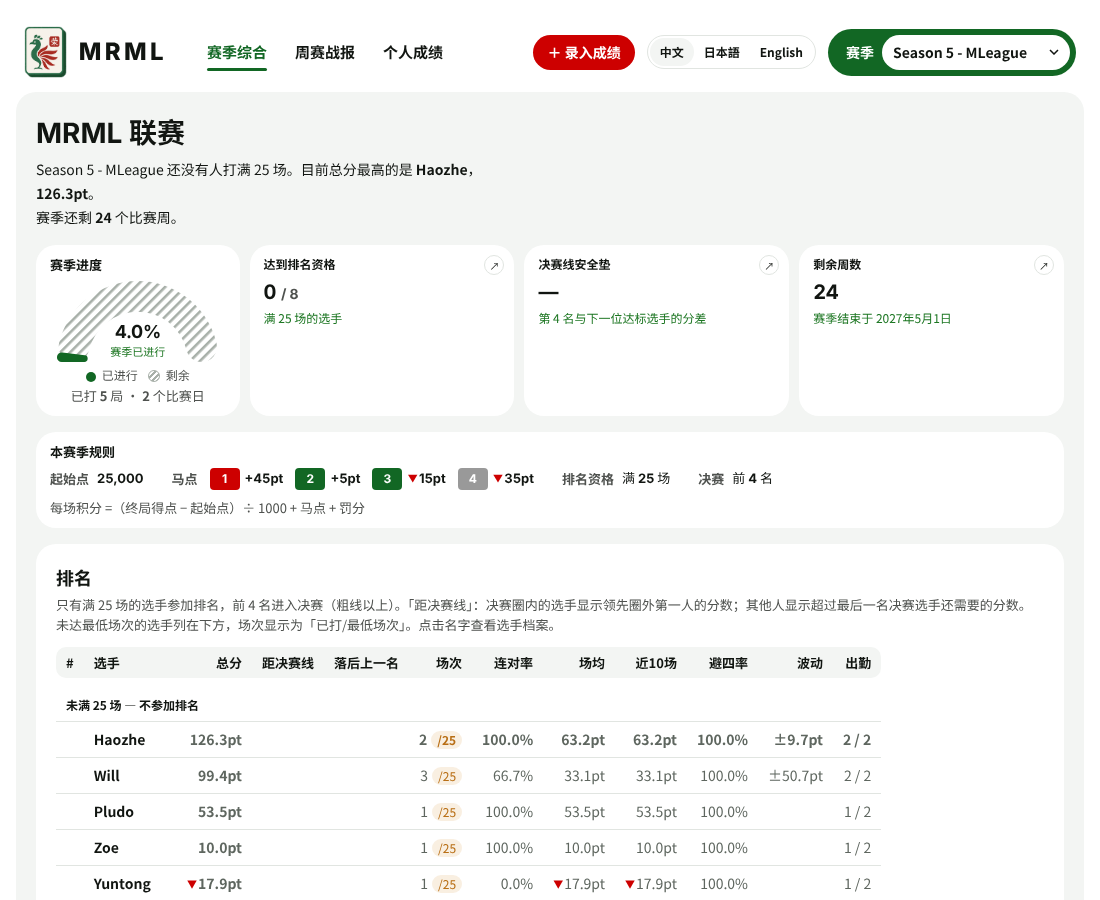
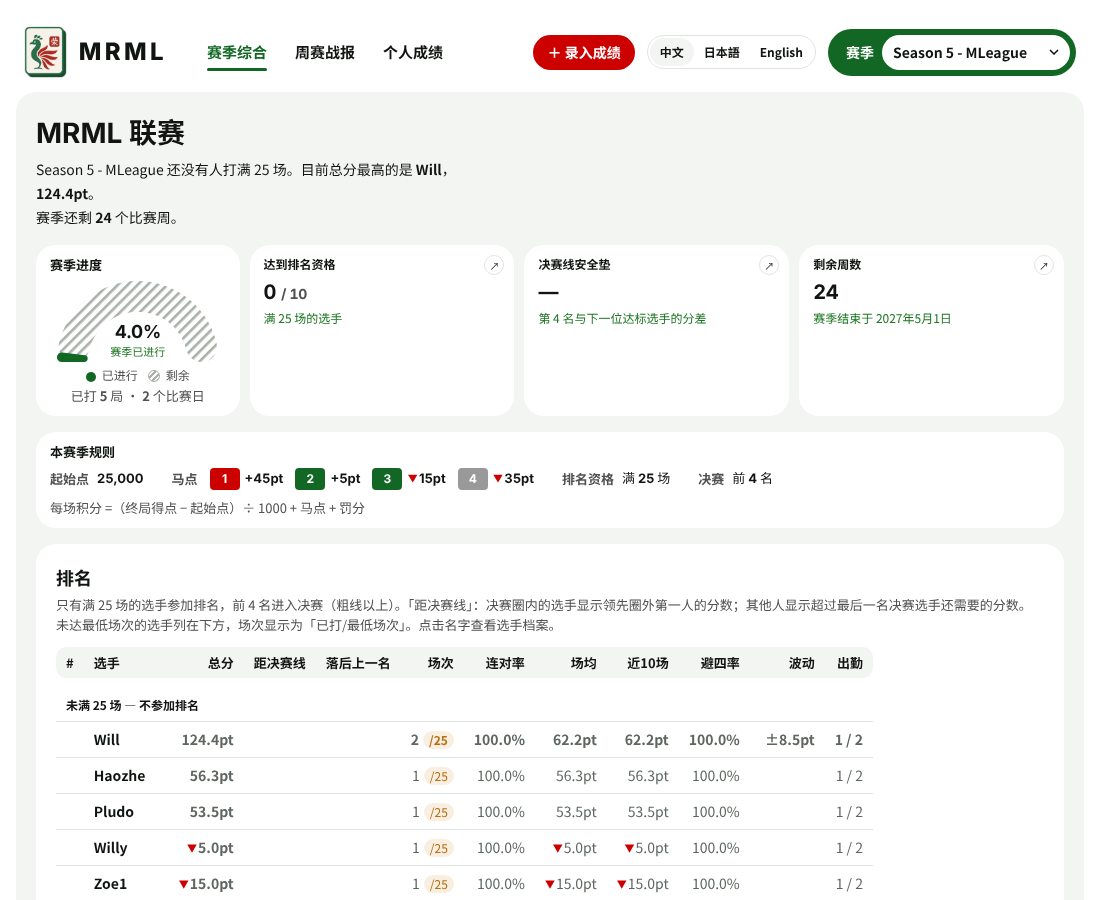
Ties: split the bonus but both players keep the higher place (no half places)
Claude-Session: https://claude.ai/code/session_01Fz9KbE3Bs34c3hJEbuy2ze

diff --git a/index.html b/index.html
@@ -607,7 +607,7 @@
           </div>
           <div class="mr-board" id="board-tops">
             <h3><span class="t-zh" lang="zh">最多一位</span><span class="t-ja" lang="ja">最多トップ</span><span class="t-en" lang="en">Most 1sts</span></h3>
-            <p class="mr-bnote"><span class="t-zh" lang="zh">一位次数（同分算半次）</span><span class="t-ja" lang="ja">トップ回数（同点は0.5）</span><span class="t-en" lang="en">1st places (a tie counts as half)</span></p>
+            <p class="mr-bnote"><span class="t-zh" lang="zh">一位次数（同分并列一位都算）</span><span class="t-ja" lang="ja">トップ回数（同点トップも1回）</span><span class="t-en" lang="en">1st places (a shared 1st counts)</span></p>
             <div class="mr-bbody" data-draw="board-tops" data-source="standings"></div>
           </div>
         </div>
@@ -737,7 +737,7 @@
       <summary><span class="t-zh" lang="zh">数字是怎么算的</span><span class="t-ja" lang="ja">計算方法</span><span class="t-en" lang="en">How the numbers are worked out</span></summary>
       <ul>
         <li><span class="t-zh" lang="zh">每场积分 =（终局得点 − 起始点）÷ 1000 + 顺位马点 + 罚分。起始点和马点按赛季规则：第 3–4 季 30,000 起，+30 / +10 / −10 / −30；第 5 季 25,000 起，+45 / +5 / −15 / −35。</span><span class="t-ja" lang="ja">各対局のpt =（終局点 − 持ち点）÷ 1000 + 順位ウマ + ペナルティ。持ち点とウマはシーズンのルールに従う：シーズン3–4は30,000点持ち、+30 / +10 / −10 / −30、シーズン5は25,000点持ち、+45 / +5 / −15 / −35。</span><span class="t-en" lang="en">Points per game = (final score − starting points) ÷ 1,000 + placement bonus + penalties, using each season's rules (Season 3–4: 30,000 start, +30 / +10 / −10 / −30; Season 5: 25,000 start, +45 / +5 / −15 / −35).</span></li>
-        <li><span class="t-zh" lang="zh">同分的选手平分所并列名次的马点，名次次数也各算一半。</span><span class="t-ja" lang="ja">同点の選手は該当順位のウマを均等に分け、順位回数も按分。</span><span class="t-en" lang="en">Players tied on score share the placements they tie for: their bonuses are averaged and the placement counts are split.</span></li>
+        <li><span class="t-zh" lang="zh">同分的选手平分所并列名次的马点；名次都算较高的那一位（例如两人同分第 2，就都是 2 位，没有 3 位，最后一人是 4 位）。</span><span class="t-ja" lang="ja">同点の選手は該当順位のウマを均等に分けます。順位は上位側を共有します（2位タイなら2人とも2位、3位は空き、最下位は4位）。</span><span class="t-en" lang="en">Tied players split the bonus for the places they share, but both take the higher place (two tied for 2nd are both 2nd, there is no 3rd, and the last player is 4th).</span></li>
         <li><span class="t-zh" lang="zh">表格里的罚分按原数直接加到当场积分。</span><span class="t-ja" lang="ja">シートのペナルティはそのままその対局のptに加算。</span><span class="t-en" lang="en">Penalties from the sheet are added to that game’s points as written.</span></li>
         <li><span class="t-zh" lang="zh">只有满赛季最低场次（第 3–4 季 30 场，第 5 季 25 场）的选手参加排名，排名前 4 的选手进入决赛。「落后上一名」只在排名选手之间比较。</span><span class="t-ja" lang="ja">シーズンの最低対局数（シーズン3–4は30戦、シーズン5は25戦）以上の選手のみ順位対象で、上位4名が決勝進出。「上位との差」は順位対象の選手間のみ。</span><span class="t-en" lang="en">Only players with at least the season's minimum games (30 in Seasons 3–4, 25 in Season 5) are ranked, and the top 4 ranked players make the final. Behind next compares ranked players only.</span></li>
         <li><span class="t-zh" lang="zh">剩余周数：赛季还没打的周数。每周从开幕那天的星期几算起（第 5 赛季是星期六到下星期五）；同一周里不管哪天打、打几次，都只算这一周。本周还没开打时，本周也算在内。</span><span class="t-ja" lang="ja">残り週数：まだ対局していない週の数。週は開幕と同じ曜日から始まり（シーズン5は土曜〜金曜）、同じ週内の対局は何日・何回でも1週として数えます。</span><span class="t-en" lang="en">Weeks left counts league weeks not yet played. A week starts on the season's opening weekday (Season 5: Saturday to Friday); any games inside a week, on any day, count as that one week.</span></li>
@@ -858,7 +858,8 @@
           let bonus = 0;
           for (let p = i; p <= j; p++) bonus += season.bonus[p];
           bonus /= (j - i + 1);
-          for (let p = i; p <= j; p++) { order[p].place = (i + j) / 2 + 1; order[p].bonus = bonus; }
+          // Tied players share the bonus equally, but each keeps the higher place (two tied for 2nd are both 2nd; 3rd is skipped).
+          for (let p = i; p <= j; p++) { order[p].place = i + 1; order[p].bonus = bonus; }
           i = j + 1;
         }
         for (const s of seats) {

diff --git a/mobile.html b/mobile.html
@@ -607,7 +607,7 @@
           </div>
           <div class="mr-board" id="board-tops">
             <h3><span class="t-zh" lang="zh">最多一位</span><span class="t-ja" lang="ja">最多トップ</span><span class="t-en" lang="en">Most 1sts</span></h3>
-            <p class="mr-bnote"><span class="t-zh" lang="zh">一位次数（同分算半次）</span><span class="t-ja" lang="ja">トップ回数（同点は0.5）</span><span class="t-en" lang="en">1st places (a tie counts as half)</span></p>
+            <p class="mr-bnote"><span class="t-zh" lang="zh">一位次数（同分并列一位都算）</span><span class="t-ja" lang="ja">トップ回数（同点トップも1回）</span><span class="t-en" lang="en">1st places (a shared 1st counts)</span></p>
             <div class="mr-bbody" data-draw="board-tops" data-source="standings"></div>
           </div>
         </div>
@@ -737,7 +737,7 @@
       <summary><span class="t-zh" lang="zh">数字是怎么算的</span><span class="t-ja" lang="ja">計算方法</span><span class="t-en" lang="en">How the numbers are worked out</span></summary>
       <ul>
         <li><span class="t-zh" lang="zh">每场积分 =（终局得点 − 起始点）÷ 1000 + 顺位马点 + 罚分。起始点和马点按赛季规则：第 3–4 季 30,000 起，+30 / +10 / −10 / −30；第 5 季 25,000 起，+45 / +5 / −15 / −35。</span><span class="t-ja" lang="ja">各対局のpt =（終局点 − 持ち点）÷ 1000 + 順位ウマ + ペナルティ。持ち点とウマはシーズンのルールに従う：シーズン3–4は30,000点持ち、+30 / +10 / −10 / −30、シーズン5は25,000点持ち、+45 / +5 / −15 / −35。</span><span class="t-en" lang="en">Points per game = (final score − starting points) ÷ 1,000 + placement bonus + penalties, using each season's rules (Season 3–4: 30,000 start, +30 / +10 / −10 / −30; Season 5: 25,000 start, +45 / +5 / −15 / −35).</span></li>
-        <li><span class="t-zh" lang="zh">同分的选手平分所并列名次的马点，名次次数也各算一半。</span><span class="t-ja" lang="ja">同点の選手は該当順位のウマを均等に分け、順位回数も按分。</span><span class="t-en" lang="en">Players tied on score share the placements they tie for: their bonuses are averaged and the placement counts are split.</span></li>
+        <li><span class="t-zh" lang="zh">同分的选手平分所并列名次的马点；名次都算较高的那一位（例如两人同分第 2，就都是 2 位，没有 3 位，最后一人是 4 位）。</span><span class="t-ja" lang="ja">同点の選手は該当順位のウマを均等に分けます。順位は上位側を共有します（2位タイなら2人とも2位、3位は空き、最下位は4位）。</span><span class="t-en" lang="en">Tied players split the bonus for the places they share, but both take the higher place (two tied for 2nd are both 2nd, there is no 3rd, and the last player is 4th).</span></li>
         <li><span class="t-zh" lang="zh">表格里的罚分按原数直接加到当场积分。</span><span class="t-ja" lang="ja">シートのペナルティはそのままその対局のptに加算。</span><span class="t-en" lang="en">Penalties from the sheet are added to that game’s points as written.</span></li>
         <li><span class="t-zh" lang="zh">只有满赛季最低场次（第 3–4 季 30 场，第 5 季 25 场）的选手参加排名，排名前 4 的选手进入决赛。「落后上一名」只在排名选手之间比较。</span><span class="t-ja" lang="ja">シーズンの最低対局数（シーズン3–4は30戦、シーズン5は25戦）以上の選手のみ順位対象で、上位4名が決勝進出。「上位との差」は順位対象の選手間のみ。</span><span class="t-en" lang="en">Only players with at least the season's minimum games (30 in Seasons 3–4, 25 in Season 5) are ranked, and the top 4 ranked players make the final. Behind next compares ranked players only.</span></li>
         <li><span class="t-zh" lang="zh">剩余周数：赛季还没打的周数。每周从开幕那天的星期几算起（第 5 赛季是星期六到下星期五）；同一周里不管哪天打、打几次，都只算这一周。本周还没开打时，本周也算在内。</span><span class="t-ja" lang="ja">残り週数：まだ対局していない週の数。週は開幕と同じ曜日から始まり（シーズン5は土曜〜金曜）、同じ週内の対局は何日・何回でも1週として数えます。</span><span class="t-en" lang="en">Weeks left counts league weeks not yet played. A week starts on the season's opening weekday (Season 5: Saturday to Friday); any games inside a week, on any day, count as that one week.</span></li>
@@ -923,7 +923,8 @@
           let bonus = 0;
           for (let p = i; p <= j; p++) bonus += season.bonus[p];
           bonus /= (j - i + 1);
-          for (let p = i; p <= j; p++) { order[p].place = (i + j) / 2 + 1; order[p].bonus = bonus; }
+          // Tied players share the bonus equally, but each keeps the higher place (two tied for 2nd are both 2nd; 3rd is skipped).
+          for (let p = i; p <= j; p++) { order[p].place = i + 1; order[p].bonus = bonus; }
           i = j + 1;
         }
         for (const s of seats) {

diff --git a/entry.html b/entry.html
@@ -258,7 +258,7 @@
     while (pos < 4) {
       let j = pos; while (j + 1 < 4 && order[j + 1].score === order[pos].score) j++;
       const share = uma.slice(pos, j + 1).reduce((a, b) => a + b, 0) / (j - pos + 1);
-      for (let q = pos; q <= j; q++) { order[q].place = (pos + j) / 2 + 1; order[q].pts = Math.round(((order[q].score - season.start_points) / 1000 + share + order[q].penalty) * 10) / 10; }
+      for (let q = pos; q <= j; q++) { order[q].place = pos + 1; order[q].pts = Math.round(((order[q].score - season.start_points) / 1000 + share + order[q].penalty) * 10) / 10; }
       pos = j + 1;
     }
     return order;

diff --git a/src/entry.template.html b/src/entry.template.html
@@ -258,7 +258,7 @@
     while (pos < 4) {
       let j = pos; while (j + 1 < 4 && order[j + 1].score === order[pos].score) j++;
       const share = uma.slice(pos, j + 1).reduce((a, b) => a + b, 0) / (j - pos + 1);
-      for (let q = pos; q <= j; q++) { order[q].place = (pos + j) / 2 + 1; order[q].pts = Math.round(((order[q].score - season.start_points) / 1000 + share + order[q].penalty) * 10) / 10; }
+      for (let q = pos; q <= j; q++) { order[q].place = pos + 1; order[q].pts = Math.round(((order[q].score - season.start_points) / 1000 + share + order[q].penalty) * 10) / 10; }
       pos = j + 1;
     }
     return order;
